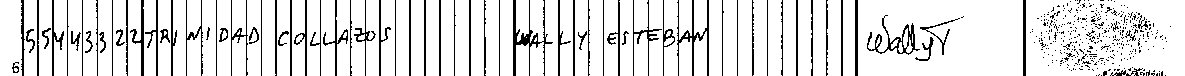
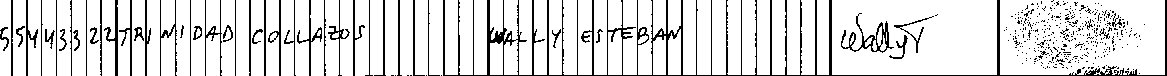
recorte dni funcionando :)

Changed region(s): [[0.0, 0.0, 1.0, 1.0]]

diff --git a/SISCOMFI/src/pe/pucp/edu/pe/siscomfi/algoritmo/PruebaNuevoOCR.java b/SISCOMFI/src/pe/pucp/edu/pe/siscomfi/algoritmo/PruebaNuevoOCR.java
@@ -23,23 +23,7 @@ public class PruebaNuevoOCR {
 		//IJ.run(img, "Make Binary", "");
 		recortarCostadosProcesarPadron(img);
 		
-		/*
-		int alturaFila= Math.round((hPrueba*(img.getWidth())) /wPrueba) -2 ; //altura fija de una fila
-		int yFinal;
-		
-		yFinal = img.getHeight();
-		for (i=2; i<=8; i++){
-			ImagePlus imgCopia = new Duplicator ().run(img);
-			
-			
-			imgCopia.setRoi(2, yFinal - alturaFila, imgCopia.getWidth(), alturaFila);
-             IJ.run(imgCopia, "Crop", "");   
-             
-             yFinal = (yFinal- alturaFila) - 1;
-            imgCopia.show();
-		}
-		*/
-		
+				
 		int alturaFila= Math.round((hPrueba*(img.getWidth() - 1)) /wPrueba) ; //altura fija de una fila
 		int anchoNumeracion = Math.round((colNumeracion*(img.getWidth()  - 1) ) /wPrueba );
 		int anchoUnDigDni = Math.round((colDniUnDig*(img.getWidth() - 1) ) /wPrueba );
@@ -61,29 +45,50 @@ public class PruebaNuevoOCR {
             
             IJ.saveAs(imgCopia, "Jpeg", "Imagenes\\001_salida_"+i+".jpg" );
             //nos quedamos con el bloque de dni;
-            //extraerDni(imgCopia, anchoUnDigDni );
+            extraerDigDni(imgCopia);
+            //extraerHuella(imgCopia);
+            //extraerFirma(imgCopia);
             imgCopia.show();
             
 		}
 		IJ.saveAs(img, "Jpeg", "Imagenes\\001_salida.jpg" );
 	}
 	
-	
+	//extraerHuella(imgCopia);
+
 	public static void quitarBordes (ImagePlus img, int anchoQuitar){
 		
-		img.setRoi(anchoQuitar, 8, img.getWidth()-8, img.getHeight()-10);		
-        IJ.run(img, "Crop", "");  
+		img.setRoi(anchoQuitar, 10, img.getWidth()-8, img.getHeight()-10);		
+        IJ.run(img, "Crop", ""); 
 	}
 	
-	public static void extraerDni(ImagePlus img, int ancho){
-		
-				
-		for (int j = 0; j<8;j++){
-			ImagePlus imgCopia = new Duplicator ().run(img);	
-			img.setRoi(j*ancho, 2, ancho, imgCopia.getHeight()-2);		
-			IJ.run(imgCopia, "Crop", "");  
-			imgCopia.show();
+	public static void extraerDigDni(ImagePlus img){
+		int r = 0, i, m;    
+		int posicionFinal=0;
+		int anchototal = img.getWidth();
+		int alturatotal = img.getHeight();
+		for (m=0; m<8; m++){	
+			ImagePlus imgCopia = new Duplicator ().run(img);
+			anchototal = imgCopia.getWidth();
+			alturatotal = imgCopia.getHeight();
+				        
+	        for(i=0 ;i<anchototal ;i++){
+	            r = imgCopia.getPixel(i, 3)[0];
+	            if(r!=0){
+	                posicionFinal = i;
+	                break;    
+	            }
+	        }
+	        imgCopia.setRoi(0, 0, posicionFinal-1, alturatotal);		
+	        IJ.run(imgCopia, "Crop", ""); 
+	        imgCopia.show();
+	        
+	        //cortamos la img para quitar el digito ya sacado
+	        img.setRoi(posicionFinal+2, 0, anchototal, alturatotal);		
+	        IJ.run(img, "Crop", ""); 
+	        img.show();
 		}
+		
 	}
 	 public static void alinearPadron(ImagePlus padronJ){  
 		 
